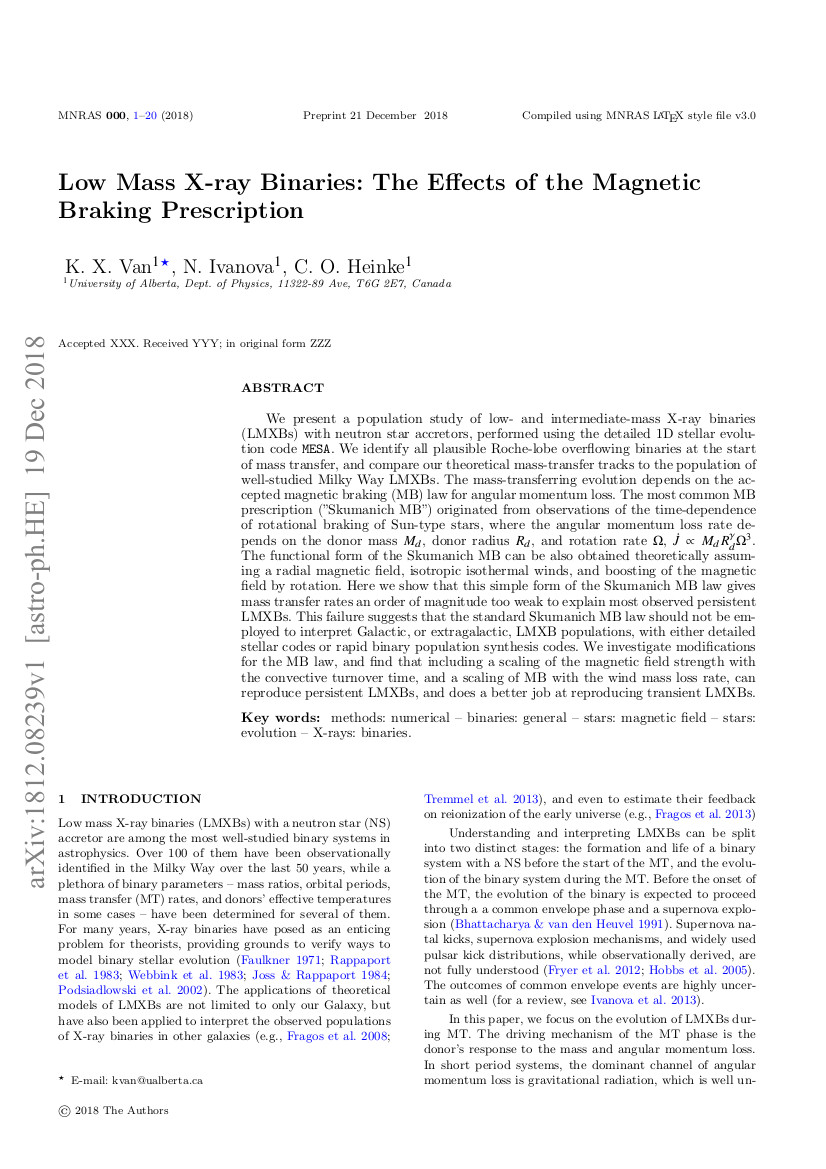
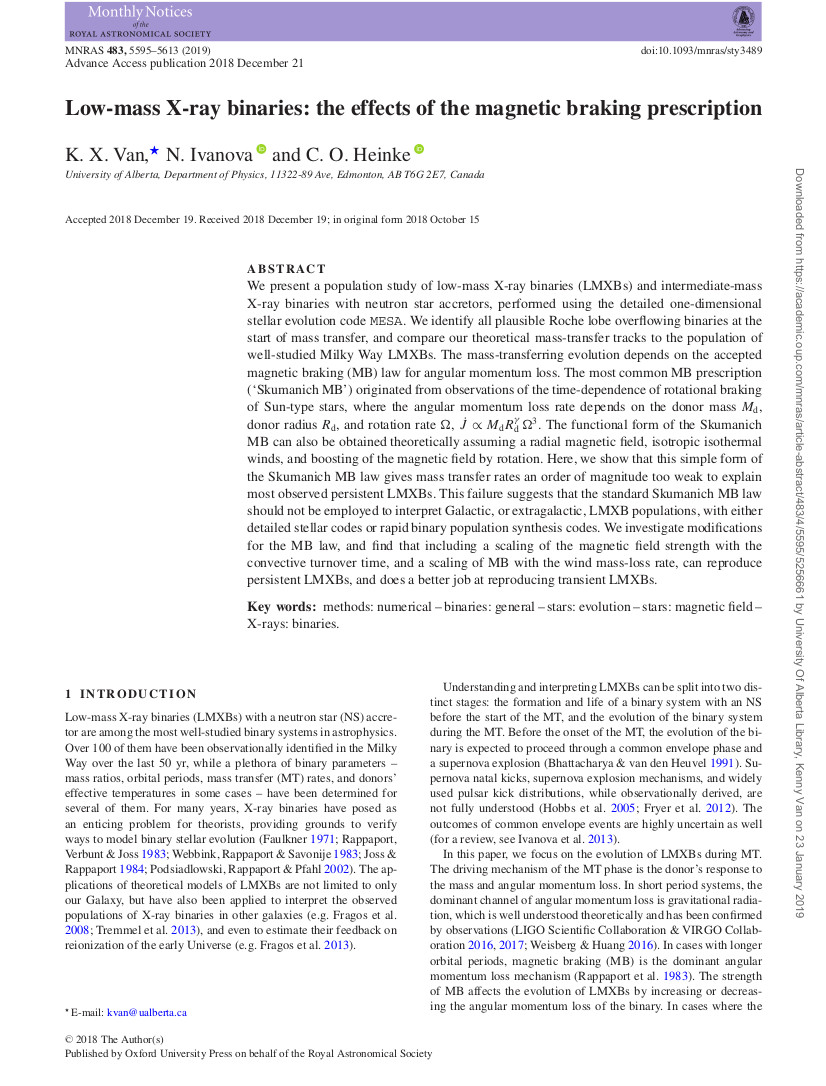
changed arxiv preprint for 2018 LMXB paper to MNRAS link

diff --git a/index.html b/index.html
@@ -747,7 +747,7 @@ License URL: http://creativecommons.org/licenses/by/3.0/
                             <a href="https://arxiv.org/abs/1812.08239", target="_blank">
                             <img src="research/LMXB_MB.jpg" class="img-responsive img-centered" alt="Low Mass X-ray Binaries: The Effects of the Magnetic Braking Prescription (link to paper)">
                             </a>
-                            <p>Van, K. X.; Ivanova, N.; Heinke. C. O, <a href="https://arxiv.org/abs/1812.08239", target="_blank">Low Mass X-ray Binaries: The Effects of the Magnetic Braking Prescription</a>, Arxiv Preprint. 2018</p>
+                            <p>Van, K. X.; Ivanova, N.; Heinke. C. O, <a href="https://academic.oup.com/mnras/article/483/4/5595/5256661", target="_blank">Low Mass X-ray Binaries: The Effects of the Magnetic Braking Prescription</a>, MNRAS. 2018</p>
                         </div>
                     </div>
                 </div>
